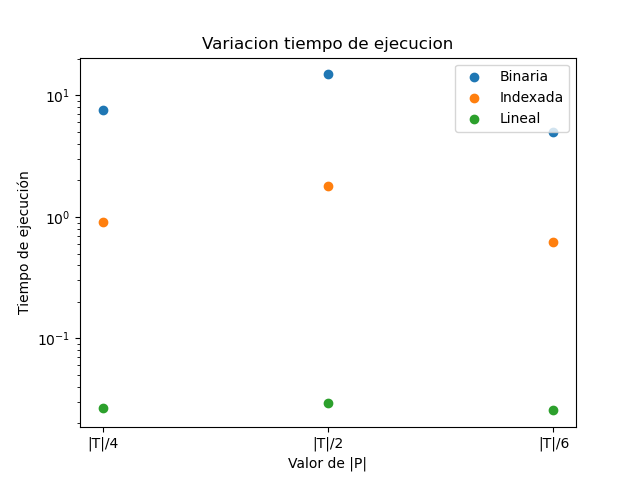
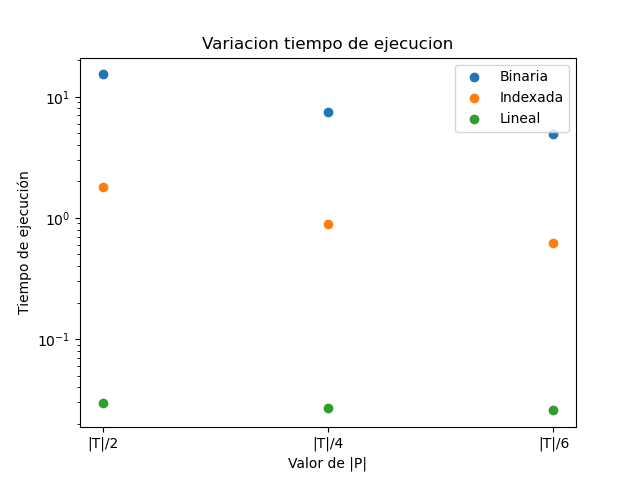
ultimos resultados

diff --git a/graphtodos.py b/graphtodos.py
@@ -22,7 +22,8 @@ if __name__ == "__main__":
             IOs_all[j][i] = np.mean(np.array(IOs))
             Times_all_std[j][i] = np.std(np.array(Times))
             IOs_all_std[j][i] = np.std(np.array(IOs))
-    names = ['|T|/4', '|T|/2', '|T|/6']
+    
+    names = ['|T|/2','|T|/4', '|T|/6']
     # plt.title('Variacion tiempo de ejecucion')
     # plt.scatter(names, Times_all[:][0], label= 'Binaria')
     # plt.scatter(names, Times_all[:][1], label = 'Indexada')
@@ -32,6 +33,8 @@ if __name__ == "__main__":
     # plt.legend()
     # plt.yscale('log')
     # plt.savefig("Tiempo_ejecucion")
+
+
     plt.title('Variacion operaciones IO')
     plt.scatter(names, IOs_all[:][0], label= 'Binaria')
     plt.scatter(names, IOs_all[:][1],  label = 'Indexada')

diff --git a/scripttodos.py b/scripttodos.py
@@ -7,7 +7,7 @@ import linearSearch
 import indexSearch
 if __name__ == "__main__":
     sizeT = int(sys.argv[1])
-    sizeP = [sizeT//4, sizeT//2, sizeT//6]
+    sizeP = [sizeT//2, sizeT//4, sizeT//6]
     #  |P| < |T|/3     |P| > |T|/3     |P| > |T|/7
     k = 15
     for i in range(3):
